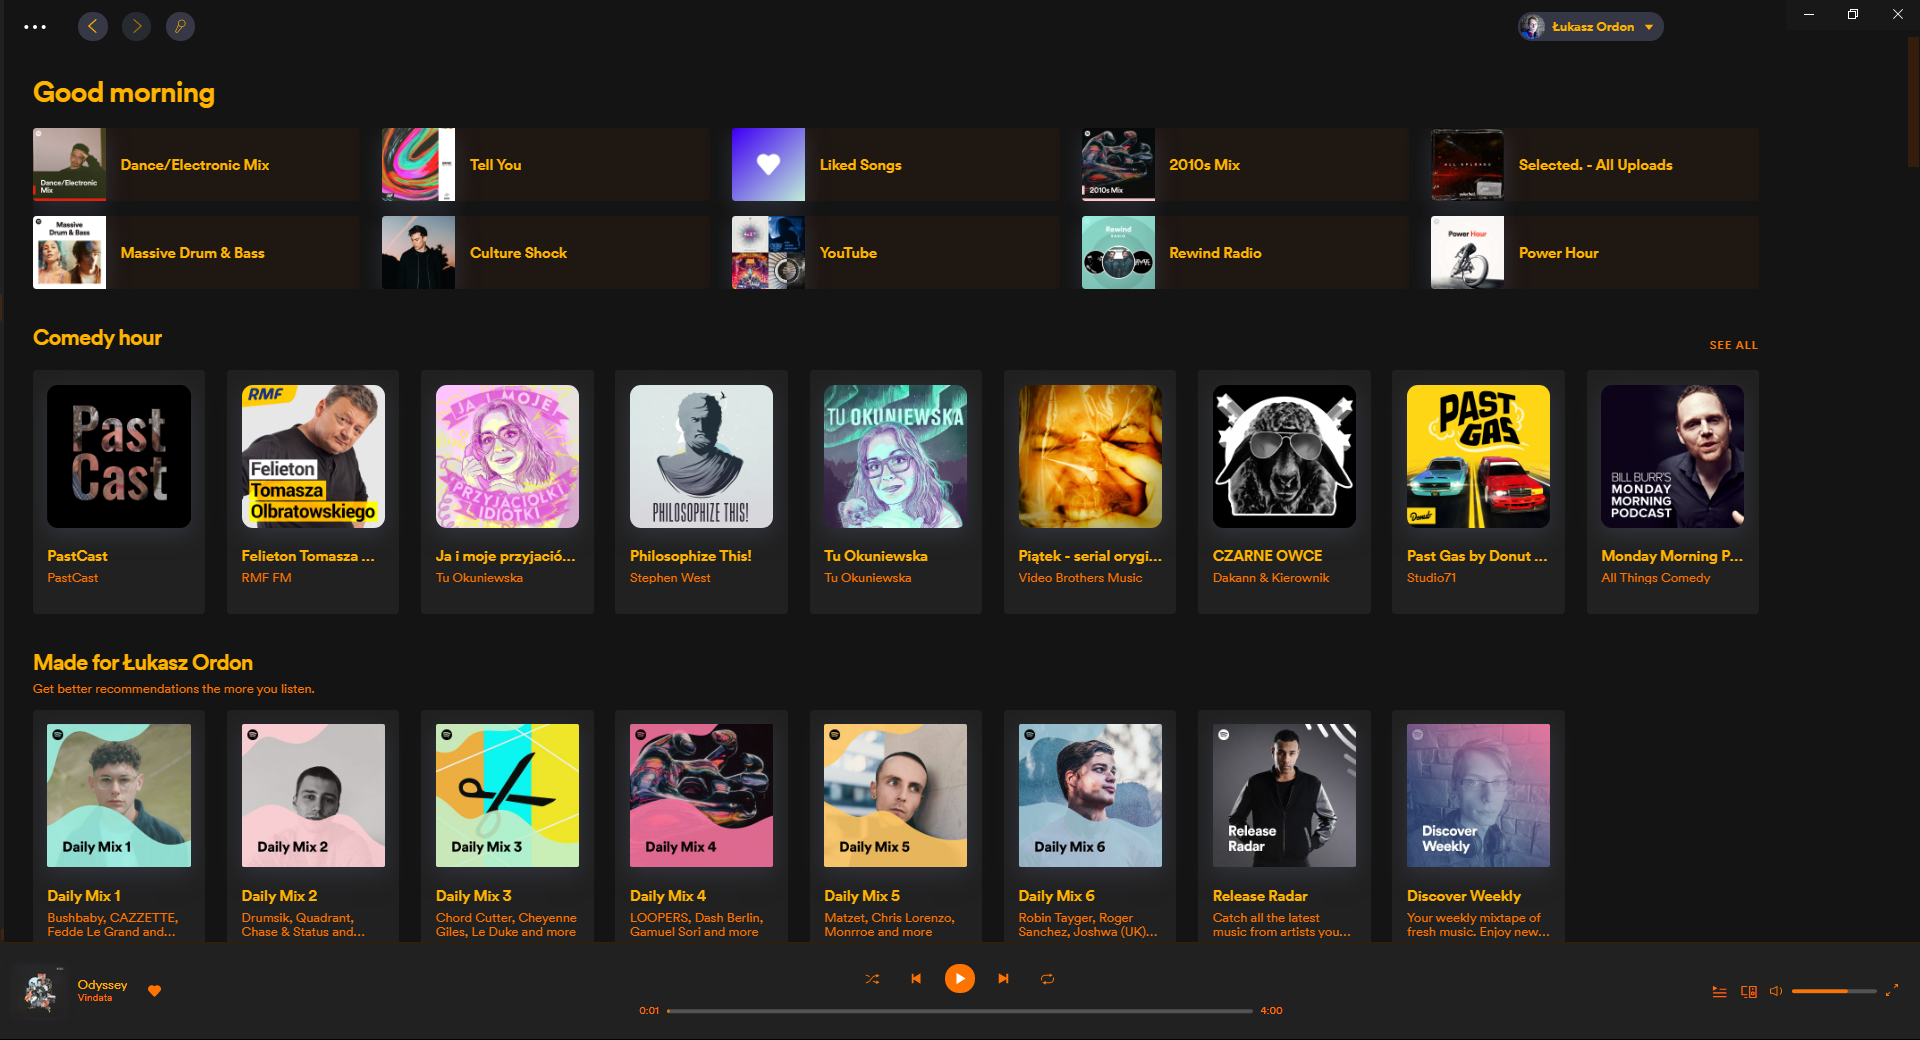
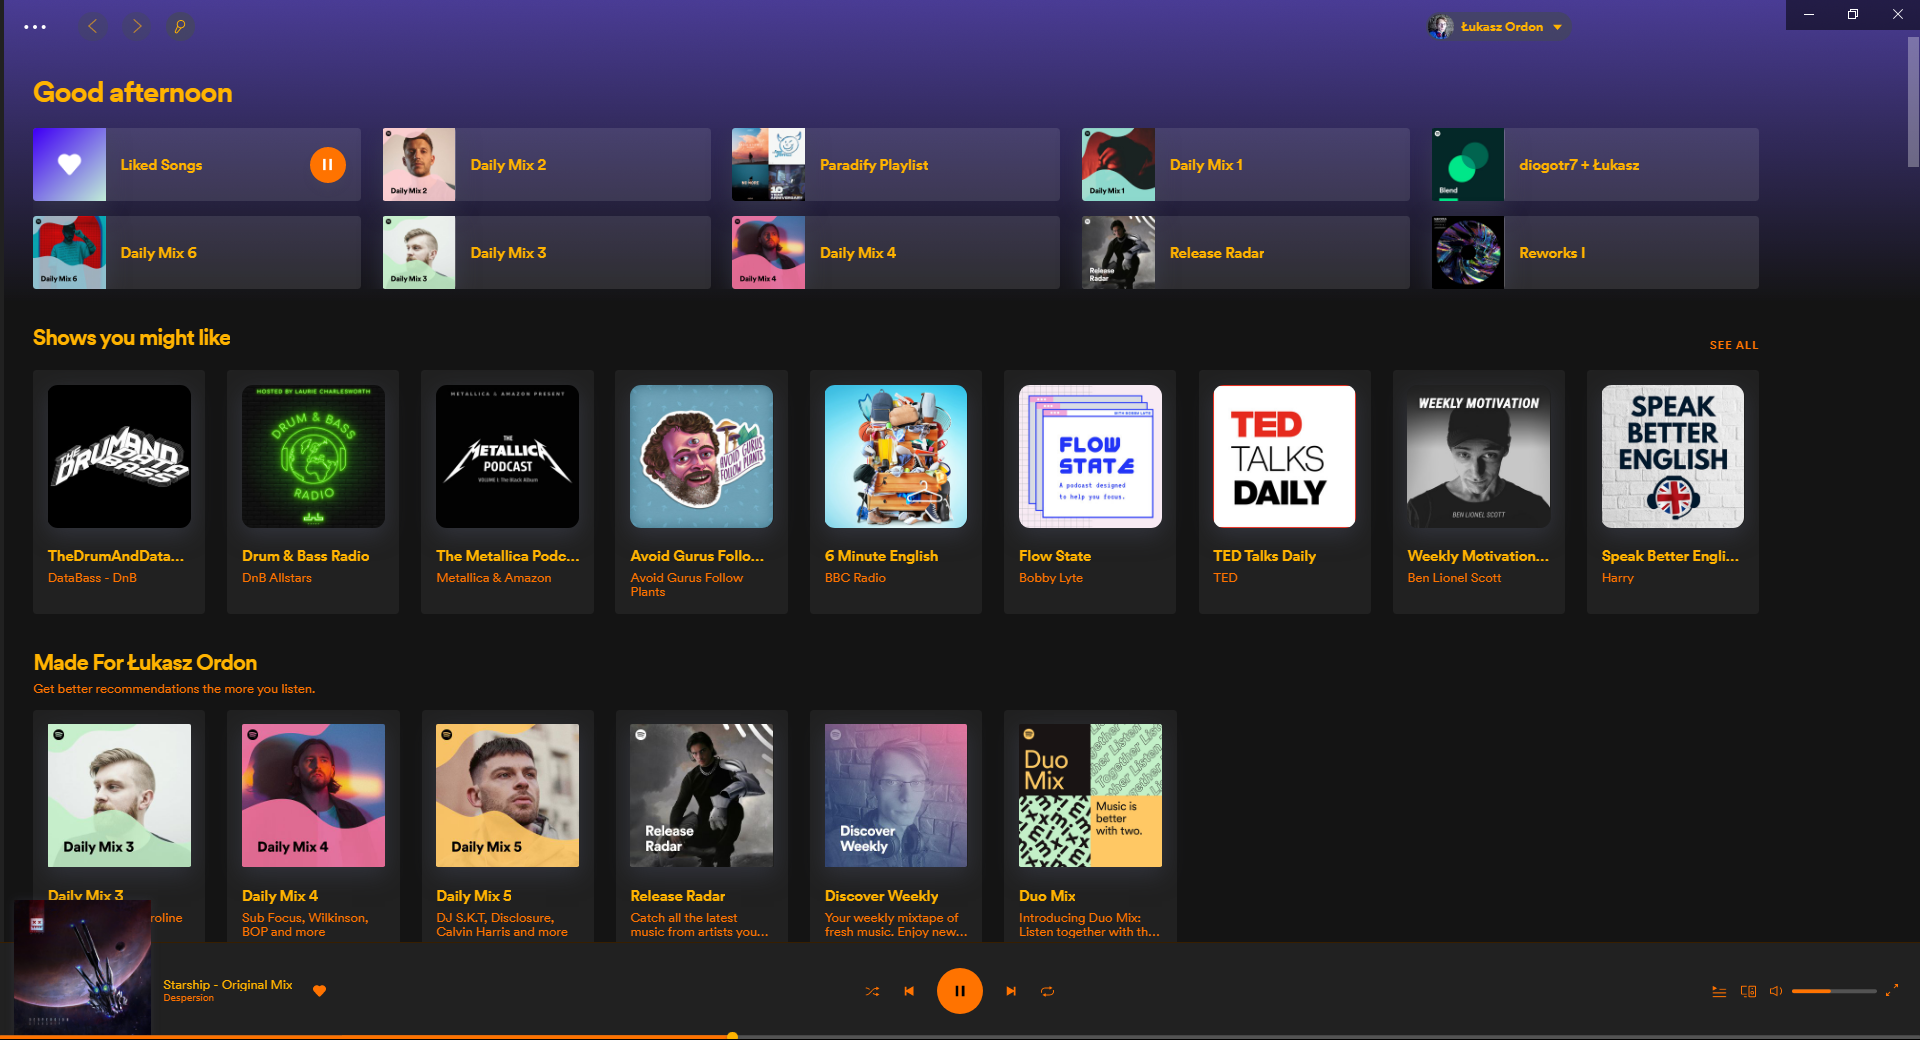
Xpui theme update (#3)
Fixes and additions

- Fix artist page background (for real this time)
- Make album art bigger
- EASED PROGRESS BARS (more fluid... no more hitching)
- Move song progress bar to very bottom of Spotify
- Bigger play/pause button (with black play/pause icon)
- Make sidebar longer to scroll (bugged as fuck but at least playlists are not hidden under bigger artwork... unless you have more playlist than me...)

diff --git a/Themes/DarkOrange-xpui/user.css b/Themes/DarkOrange-xpui/user.css
@@ -67,13 +67,14 @@ span.artist-artistVerifiedBadge-badge svg:nth-child(1) {
 
 /* Full window artist background */
 .main-entityHeader-background.main-entityHeader-gradient {
-    opacity: 0.3;
+    opacity: 0.6;
+    height: 60vh;
 }
 
 .main-entityHeader-container.main-entityHeader-withBackgroundImage,
 .main-entityHeader-background,
 .main-entityHeader-background.main-entityHeader-overlay:after {
-    height: 100vh;
+    height: 60vh;
 }
 
 .main-entityHeader-withBackgroundImage .main-entityHeader-headerText {
@@ -158,19 +159,103 @@ span.artist-artistVerifiedBadge-badge svg:nth-child(1) {
 
 .Root__nav-bar {
     width: 5px;
-    transition: width .3s;
-    content-visibility: auto;
+    transition: width .3s, content-visibility .3s;
+    content-visibility: hidden;
 }
 
 .Root__nav-bar:hover {
     width: 240px;
-    transition: width .3s;
+    content-visibility: initial;
+    transition: width .3s, content-visibility .3s;
 }
 
 .main-topBar-historyButtons {
     padding-left: 50px;
 }
 
-.wQi0raQMEJJrELuj_2FP {
-	height: 100%;
+#spicetify-playlist-list > div {
+    height: 3030px !important;
+}
+
+/*.wQi0raQMEJJrELuj_2FP {
+	height: 60vh;
+}*/
+
+
+/** Additions **/
+.playback-bar__progress-time {
+    min-width: 40px;
+    font-size: 15px;
+    position: relative;
+    bottom: 5px;
+    visibility: hidden;
+}
+
+#main > div > div.Root__top-container > div.Root__now-playing-bar > footer > div > div.main-nowPlayingBar-center > div > div.playback-bar > div.playback-progressbar.bqYllg5gUoS2S1Y0fjqx > div {
+    position: absolute !important;
+    padding-top: 5px !important;
+}
+
+div.main-nowPlayingBar-center > div > div.playback-bar {
+    position: absolute;
+    bottom: 0;
+}
+
+#main > div > div.Root__top-container > div.Root__now-playing-bar > footer > div > div.main-nowPlayingBar-center > div > div.playback-bar > div.playback-progressbar.bqYllg5gUoS2S1Y0fjqx {
+    position: absolute !important;
+    width: 100%;
+    padding-top: 6px;
+}
+
+div.main-coverSlotCollapsed-container > div > a > div > div {
+    object-fit: contain;
+    width: 150px !important;
+    height: 150px !important;
+    bottom: 25px;
+}
+
+.cover-art .cover-art-image {
+    background-color: var(--spice-sidebar);
+    background-position: 50%;
+    background-repeat: no-repeat;
+    background-size: contain;
+    height: 100%;
+    left: 0;
+    position: absolute;
+    top: 0;
+}
+
+.main-coverSlotCollapsed-expandButton {
+    top: -15px;
+}
+
+.main-nowPlayingWidget-coverExpanded {
+    -webkit-transform: translateX(-172px);
+    transform: translateX(-172px);
+}
+
+.main-playbackBarRemainingTime-container {
+    visibility: hidden;
+}
+
+.main-playPauseButton-button {
+    --button-size: 50px !important;
+}
+
+.player-controls__buttons {
+    gap: 15px;
+    align-items: center;
+    margin-bottom: 0px;
+}
+
+#main > div > div.Root__top-container > div.Root__now-playing-bar > footer > div > div.main-nowPlayingBar-center > div > div.player-controls__buttons > button > svg {
+    fill: black;
+}
+
+.lz_1dGnEKWyCpV_qE0ux {
+    transition: transform, 0s, ease, 1s;
+}
+
+.progress-bar__slider {
+    transition: left, 0s, ease, 1s;
 }
